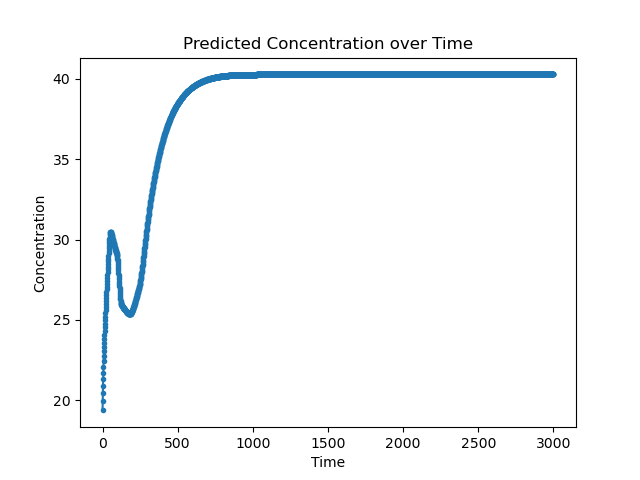
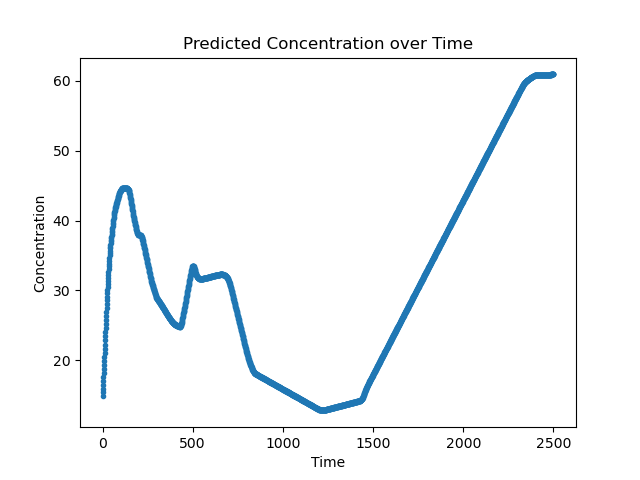
2503091810

diff --git a/250309/nivolumab.py b/250309/nivolumab.py
@@ -28,8 +28,8 @@ NUM_TRAINING_SAMPLES = 10000
 CP_SEQUENCE_LENGTH_LIMIT = 0
 MIN_CP_LENGTH = 2000
 CONCENTRATION_SCALE = 1
-SCALING_FACTOR = 2.0
-ELIMINATION_FACTOR = 0.01
+SCALING_FACTOR = 1.0
+
 RTOL = 1e-5
 ATOL = 1e-6
 
@@ -47,7 +47,7 @@ class PKPDataset(Dataset):
             self.df = self.df.iloc[:num_samples]
 
         if cp_length_limit == 0:
-            # 최소 CP 시퀀스 길이 이상인 데이터만 사용
+
             self.df = self.df[self.df["CP_sequence"].apply(len) >= MIN_CP_LENGTH]
             self.cp_length = MIN_CP_LENGTH
             if (not dist.is_initialized()) or (dist.get_rank() == 0):
@@ -76,7 +76,6 @@ class PKPDataset(Dataset):
         concentration_sequence = (
             np.array(row["CP_sequence"], dtype=np.float32) / CONCENTRATION_SCALE
         )
-
         if self.cp_length is not None:
             concentration_sequence = concentration_sequence[: self.cp_length]
         t_values = np.arange(0, len(concentration_sequence), dtype=np.float32)
@@ -136,13 +135,13 @@ class ODEFunction(nn.Module):
     def forward(
         self, t, state, static_embed, injection_times, injection_doses, sigma=0.5
     ):
-        dose = SCALING_FACTOR * (
+        dose_effect = SCALING_FACTOR * (
             injection_doses * torch.exp(-((t - injection_times) ** 2) / (2 * sigma**2))
         ).sum(dim=1, keepdim=True)
-        dose = torch.clamp(dose, min=0.0, max=1e2)
-        elimination = -ELIMINATION_FACTOR * state
-        inp = torch.cat([state, static_embed, dose], dim=-1)
-        return self.net(inp) + elimination
+        dose_effect = torch.clamp(dose_effect, min=0.0, max=1e2)
+        inp = torch.cat([state, static_embed, dose_effect], dim=-1)
+
+        return self.net(inp)
 
 
 class NeuralODEModel(nn.Module):
@@ -158,7 +157,7 @@ class NeuralODEModel(nn.Module):
         )
         self.initial_state_layer = nn.Linear(static_hidden_dim, ode_hidden_dim)
         self.ode_func = ODEFunction(ode_hidden_dim, static_hidden_dim, dose_dim=1)
-        self.readout = nn.Sequential(nn.Linear(ode_hidden_dim, 1), nn.ReLU())
+        self.readout = nn.Sequential(nn.Linear(ode_hidden_dim, 1), nn.Softplus())
 
     def forward(self, t, static_features, injection_times, injection_doses):
         static_embed = self.static_encoder(static_features)
@@ -290,7 +289,6 @@ def main_worker(gpu: int, world_size: int, args: object):
                     t, static_features, injection_times, injection_doses
                 )
                 loss_all = criterion(predicted_concentration, concentration_target)
-
                 mask = (concentration_target != 0).float()
                 loss = (loss_all * mask).sum() / mask.sum()
                 loss.backward()
@@ -379,7 +377,6 @@ if __name__ == "__main__":
 
     if args.mode == "train":
         start_epoch = 0
-
         if os.path.exists(CHECKPOINT_PATH):
             checkpoint = torch.load(CHECKPOINT_PATH, map_location=torch.device("cpu"))
             start_epoch = checkpoint["epoch"] + 1
@@ -389,13 +386,11 @@ if __name__ == "__main__":
             )
             or 10000
         )
-
         if torch.cuda.device_count() > 1:
             world_size = torch.cuda.device_count()
             mp.spawn(main_worker, args=(world_size, args), nprocs=world_size)
         else:
             main_worker(0, 1, args)
-
     elif args.mode == "infer":
         device = torch.device("cuda" if torch.cuda.is_available() else "cpu")
         model = NeuralODEModel(
